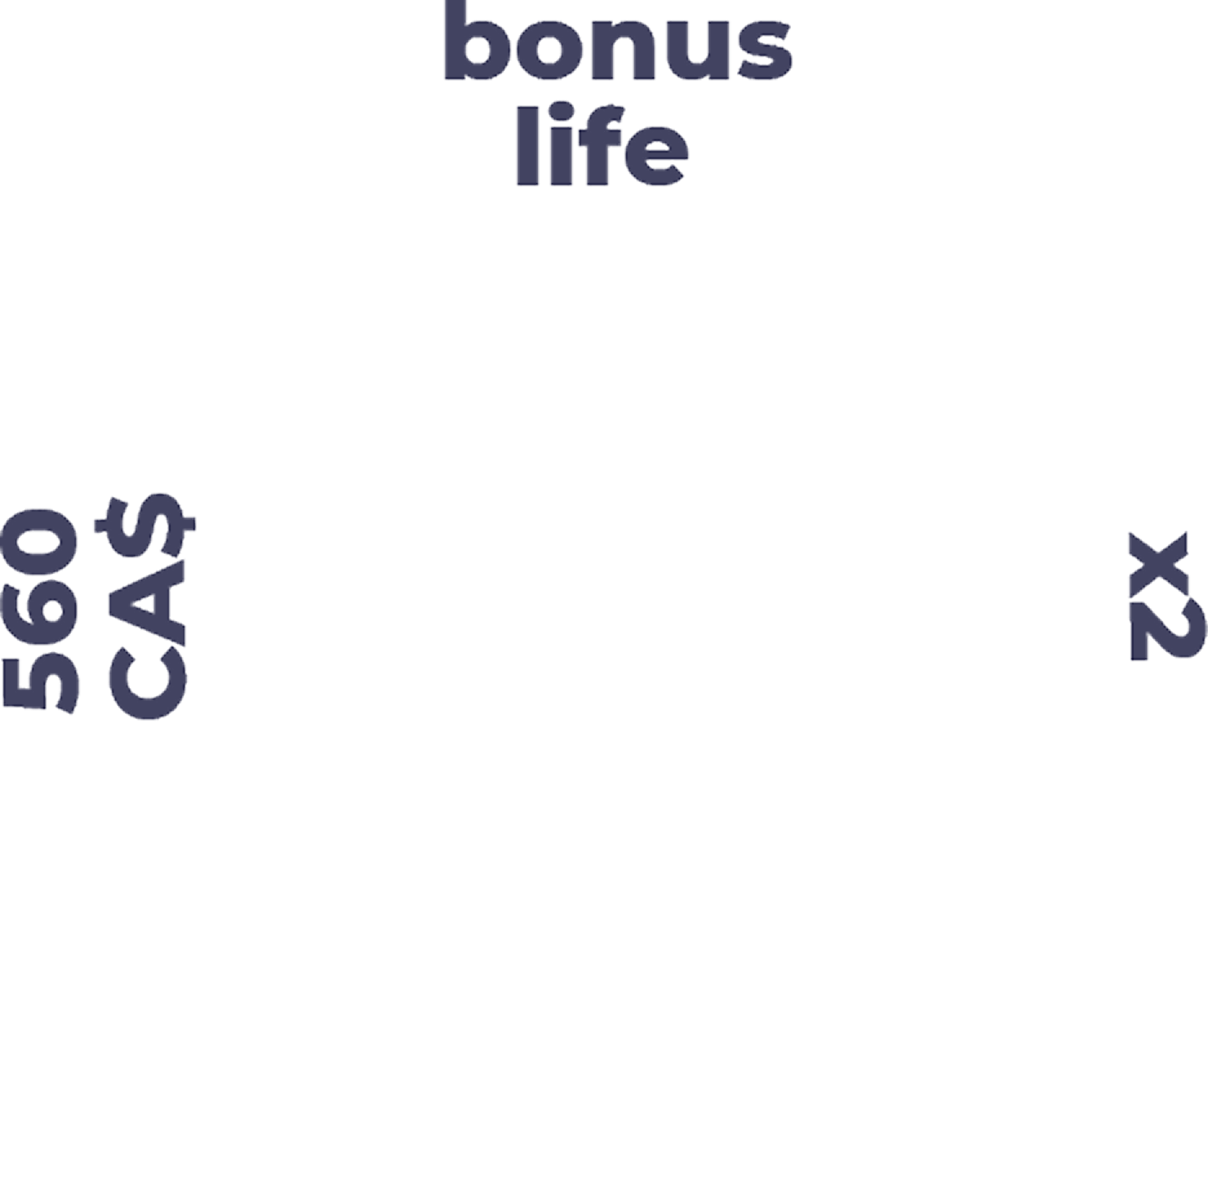
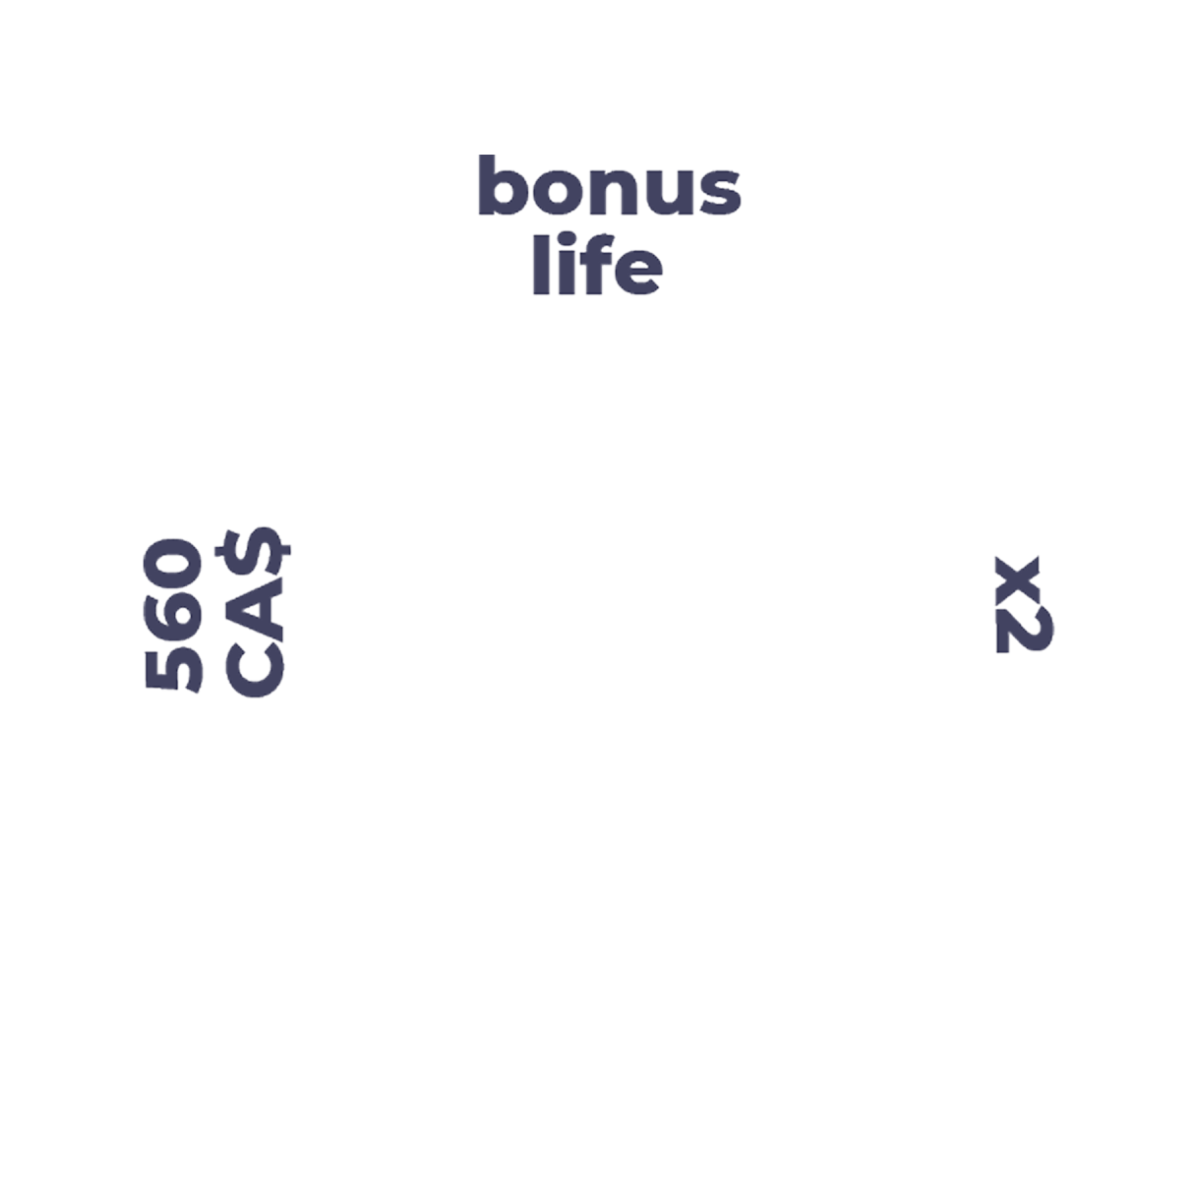
fix wheel text

diff --git a/assets/css/components.css b/assets/css/components.css
@@ -48,6 +48,9 @@
 
 .wheel-text {
   z-index: 30;
+  width: 100% !important;
+  height: 100% !important;
+  object-fit: contain;
 }
 
 .wheel-pointer {
